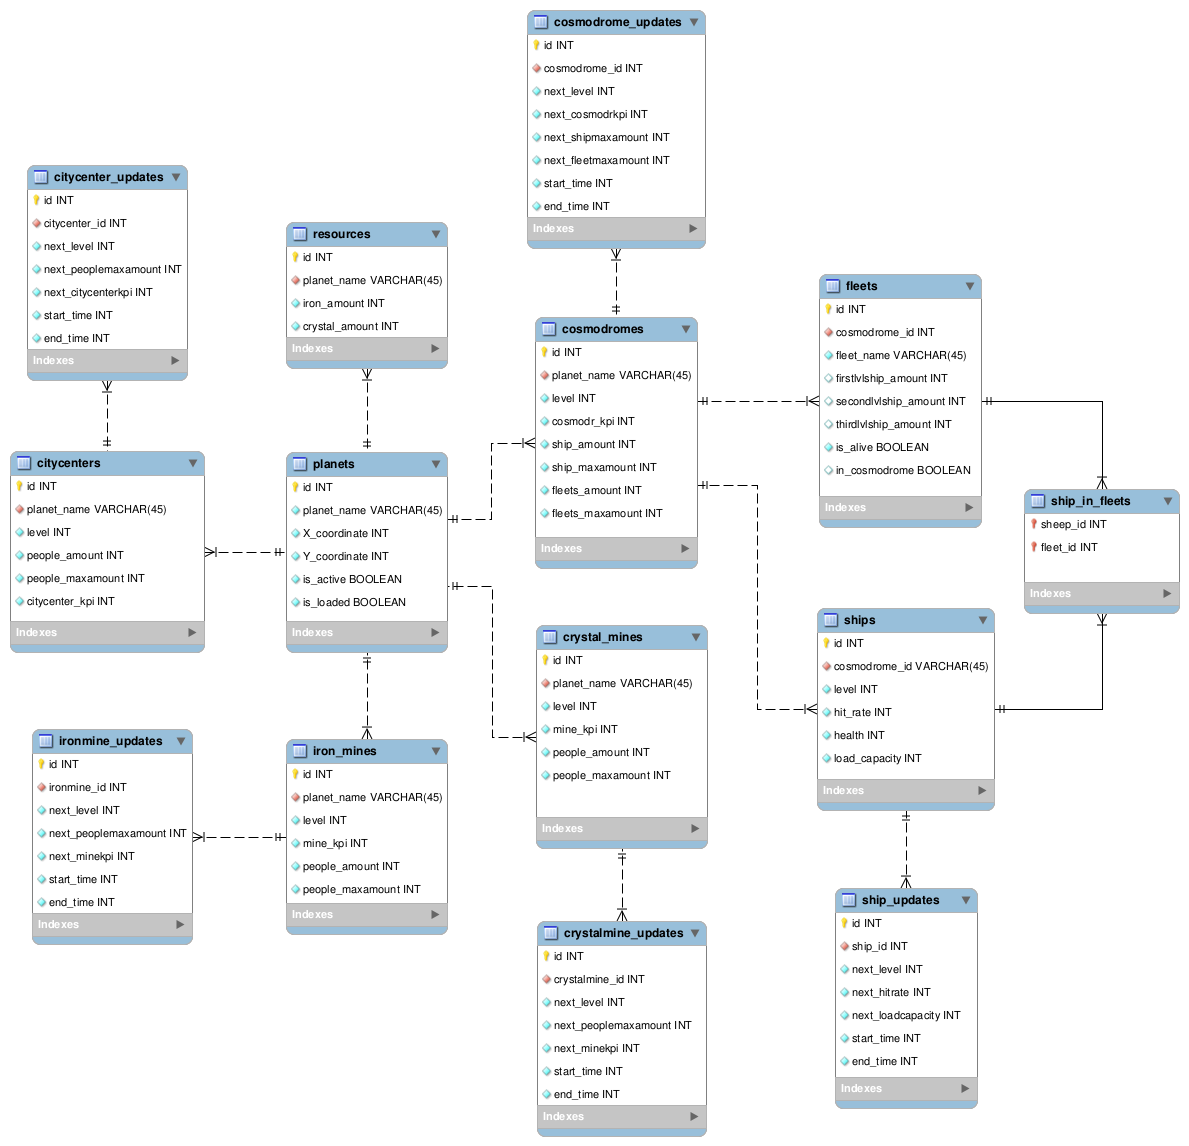
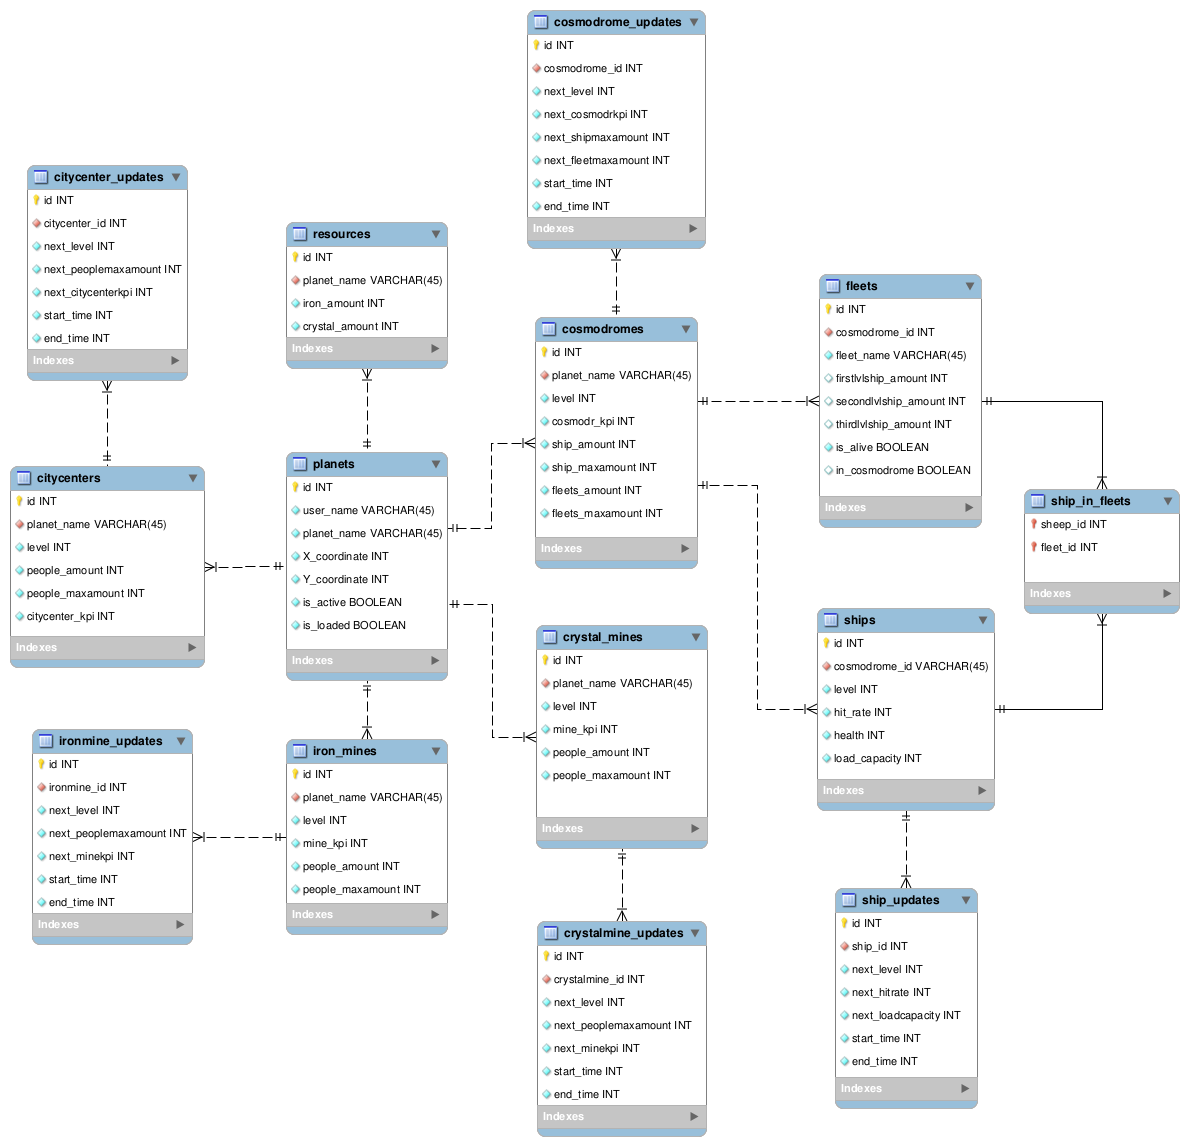
fixing database: added column user_name into table planets

Changed region(s): [[0.0, 0.3665, 0.1867, 0.5803], [0.2178, 0.4276, 0.4045, 0.6108]]

diff --git a/database/localDB/CreateTables.go b/database/localDB/CreateTables.go
@@ -25,6 +25,7 @@ func Conn() (db *gorm.DB, err error) {
 
 type Planet struct {
 	Id          int    `gorm:"primary_key;AUTO_INCREMENT"`
+	UserName    string `gorm:"not null;unique"`
 	PlanetName  string `gorm:"not null;unique"`
 	XCoordinate int
 	YCoordinate int

diff --git a/database/postgres/DatabaseStructures.go b/database/postgres/DatabaseStructures.go
@@ -2,6 +2,7 @@ package postgres
 
 type Planet struct {
 	Id          int    `gorm:"primary_key;AUTO_INCREMENT"`
+	UserName    string `gorm:"not null;unique"`
 	PlanetName  string `gorm:"not null;unique"`
 	XCoordinate int
 	YCoordinate int
